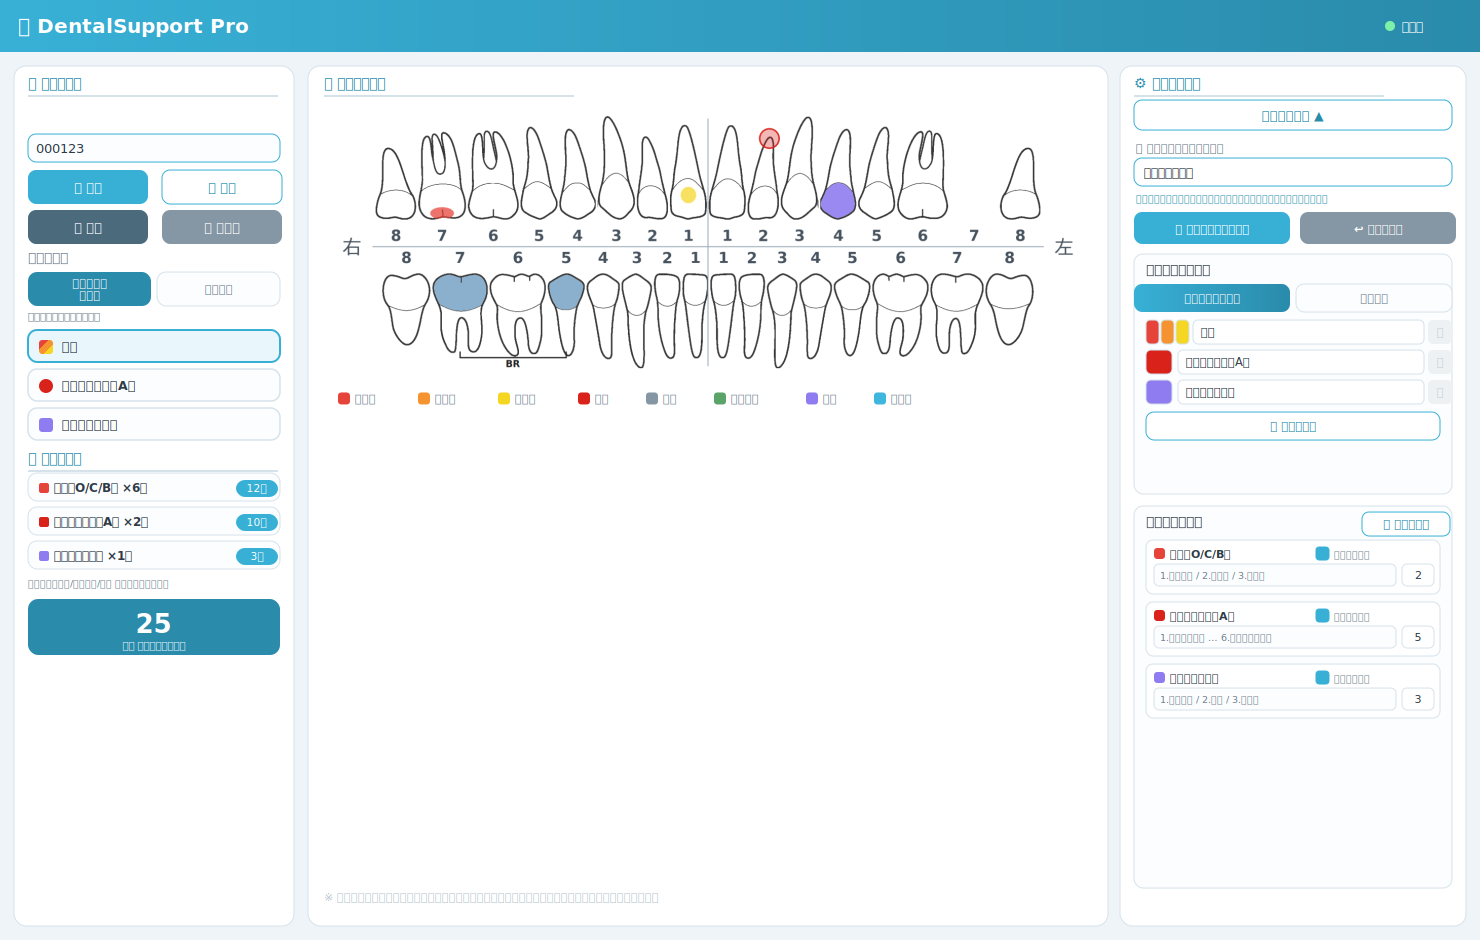
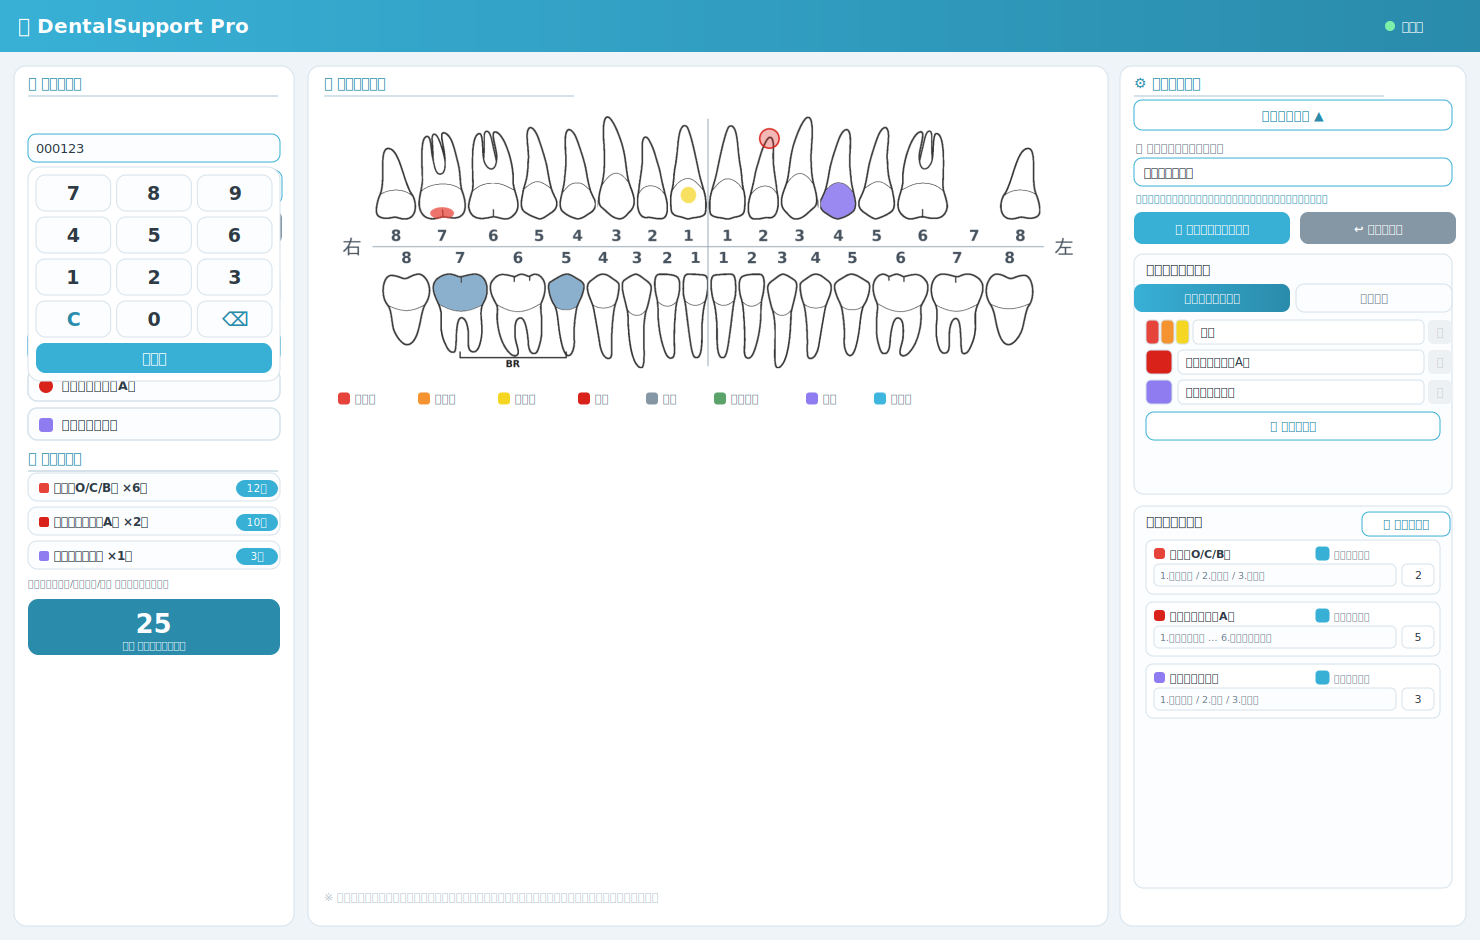
患者番号入力にオンスクリーン テンキーを追加（マウス/タブレット操作向け）
- 患者番号欄をタップ/フォーカスでテンキーをポップアップ
- 0-9・C(クリア)・⌫(削除)・閉じる。最大12桁
- 入力欄は readonly + inputmode=none でOS標準キーボードを抑制し
  テンキーのみで入力（マウスのみ/タブレットで操作可能）
- パネル内にオーバーレイ表示、外側クリックで閉じる
- プレビュー更新

Changed region(s): [[0.0, 0.1543, 0.1865, 0.4011]]

diff --git a/index.html b/index.html
@@ -33,6 +33,17 @@
   input[type=text], input[type=number] { width: 100%; padding: 8px 10px; border: 1px solid var(--line); border-radius: 8px; font-size: 14px; color: var(--text); background: #fbfdff; }
   input:focus, textarea:focus { outline: none; border-color: var(--accent); box-shadow: 0 0 0 3px rgba(56,176,214,.15); }
 
+  /* オンスクリーン テンキー */
+  .pid-wrap { position: relative; }
+  #patientId[readonly] { cursor: pointer; background: #fbfdff; }
+  .keypad { position: absolute; top: calc(100% + 5px); left: 0; right: 0; z-index: 45; background: #fff; border: 1px solid var(--line); border-radius: 12px; box-shadow: 0 10px 28px rgba(40,90,120,.25); padding: 8px; display: grid; grid-template-columns: repeat(3,1fr); gap: 6px; }
+  .keypad[hidden] { display: none; }
+  .keypad button { padding: 13px 0; font-size: 19px; font-weight: 700; border: 1px solid var(--line); border-radius: 9px; background: #fbfdff; color: var(--text); cursor: pointer; transition: all .08s; }
+  .keypad button:hover { border-color: var(--accent); background: #eaf7fc; }
+  .keypad button:active { background: var(--accent); color: #fff; border-color: var(--accent); }
+  .keypad button.act { color: var(--accent-dark); }
+  .keypad button.wide { grid-column: 1 / -1; background: var(--accent); color: #fff; border: none; font-size: 14px; padding: 11px; font-weight: 700; }
+
   .btn { display: inline-flex; align-items: center; justify-content: center; gap: 6px; padding: 9px 12px; border: none; border-radius: 8px; cursor: pointer; font-size: 13px; font-weight: 600; color: #fff; background: var(--accent); transition: filter .15s, transform .05s; }
   .btn:hover { filter: brightness(1.05); }
   .btn:active { transform: translateY(1px); }
@@ -166,8 +177,17 @@
     <h2 class="no-print">🗂 患者・操作</h2>
 
     <div class="no-print">
-      <label class="fld" for="patientId">患者番号</label>
-      <input type="text" id="patientId" placeholder="例: 000123" autocomplete="off" />
+      <label class="fld" for="patientId">患者番号（タップでテンキー）</label>
+      <div class="pid-wrap">
+        <input type="text" id="patientId" placeholder="例: 000123" readonly inputmode="none" autocomplete="off" />
+        <div class="keypad" id="keypad" hidden>
+          <button type="button" data-k="7">7</button><button type="button" data-k="8">8</button><button type="button" data-k="9">9</button>
+          <button type="button" data-k="4">4</button><button type="button" data-k="5">5</button><button type="button" data-k="6">6</button>
+          <button type="button" data-k="1">1</button><button type="button" data-k="2">2</button><button type="button" data-k="3">3</button>
+          <button type="button" data-k="clear" class="act">C</button><button type="button" data-k="0">0</button><button type="button" data-k="bs" class="act">⌫</button>
+          <button type="button" data-k="close" class="wide">閉じる</button>
+        </div>
+      </div>
 
       <div class="btn-row">
         <button class="btn" id="saveBtn">💾 保存</button>
@@ -709,6 +729,26 @@ document.getElementById("resetClinicBtn").addEventListener("click", () => {
 
 /* ================= 患者データ 保存・読込（toothDataのみ） ================= */
 function getPatientId(){ return document.getElementById("patientId").value.trim(); }
+
+/* ================= オンスクリーン テンキー（患者番号） ================= */
+(function(){
+  const pid = document.getElementById("patientId");
+  const kp = document.getElementById("keypad");
+  const openKp = () => { kp.hidden = false; };
+  pid.addEventListener("click", openKp);
+  pid.addEventListener("focus", openKp);
+  kp.addEventListener("click", (e) => {
+    const b = e.target.closest("button"); if (!b) return;
+    const k = b.dataset.k;
+    if (k === "bs") pid.value = pid.value.slice(0, -1);
+    else if (k === "clear") pid.value = "";
+    else if (k === "close") { kp.hidden = true; return; }
+    else if (pid.value.length < 12) pid.value += k;
+  });
+  document.addEventListener("click", (e) => {
+    if (!kp.hidden && !kp.contains(e.target) && e.target !== pid) kp.hidden = true;
+  });
+})();
 function clearTeeth(){ initToothData(); renderAllTeeth(); updateProcess(); }
 async function saveData(){
   const patientId = getPatientId();
